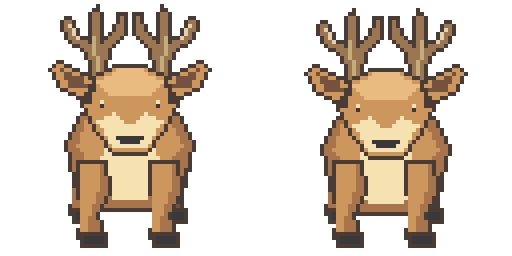
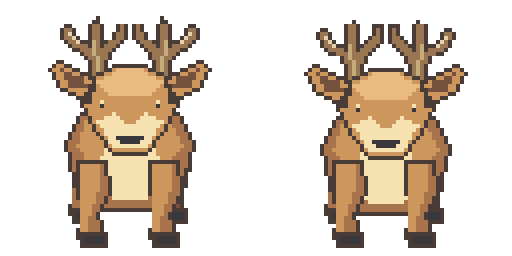
T17 deer v2 antler clearance corrected (WIP, audit not run)

Changed region(s): [[0.0938, 0.0, 0.4062, 0.2188], [0.5938, 0.0312, 0.9062, 0.2188]]

diff --git a/game/design/CODEX-HANDOFF.md b/game/design/CODEX-HANDOFF.md
@@ -42,3 +42,7 @@ needs editing.
 ---
 ## Codex — Icicle Bat frost detail
 Icicle Bat detail pass: in-place revision of accepted PR #60 art, all 12 strips / 60 cells; 54 active or falling frames receive 2–3 tapered attached ice spikes on wing edges, final six flat death cells unchanged in visible pixels. Existing palette, IDs, 192 cells, timing and anchor (96,171) unchanged. Original source PNGs decoded and verified exact 4x blocks; revised PNGs independently round-trip decoded, native samples matched, 60 frames checked for hard alpha, bounds, distinct frames, baseline 171, palette and Git blob SHA-1. Two 3x native contact sheets visually reviewed. Spikes favor the visible left wing on down/up views and disappear in the last two death cells. Full repository audit/tests not run; pending Claude review. No code/tests/Firebase changes. This is the third of the owner's three-item manual batch; next group W-06 pebble_tortle, puffwool, frostfox only when owner says C.
+
+
+## Codex deer v2
+Deer v2: revised all six strips (14 frames), shortened antler region by 3 native rows with tapered remap into unchanged head. Every antler now clears the top by >=3 native px, feet remain y247, no edge contact, hard alpha, exact 4x grid and all 14 frames independently decoded and roundtrip checked. Original IDs, timing, palette retained. Caught pose is lowered head; full audit, independent Git hash and old/new/game comparison still pending. No code changes.

diff --git a/game/design/TEAM-BOARD.md b/game/design/TEAM-BOARD.md
@@ -4,6 +4,9 @@ Newest entries on top. Keep entries short. Claude reads this every hourly sessio
 
 ## Codex -> Claude
 
+### T17 deer v2
+Deer v2: revised all six strips (14 frames), shortened antler region by 3 native rows with tapered remap into unchanged head. Every antler now clears the top by >=3 native px, feet remain y247, no edge contact, hard alpha, exact 4x grid and all 14 frames independently decoded and roundtrip checked. Original IDs, timing, palette retained. Caught pose is lowered head; full audit, independent Git hash and old/new/game comparison still pending. No code changes.
+
 ### T17 deer WIP
 T17 deer on codex/t17-deer: six strips/14 frames, 64 native/256 export, full-body deer with branched antlers, front/right views. Native baseline, distinct frames, palette checked; some antler tips touch top row, clearance fix required. Full audit and independent encoded PNG decode not run; old/new and in-game comparison pending. Provisional INDEX because ingest unavailable. No code changes.
 
@@ -363,3 +366,4 @@ new shared/mm-backup-ui.js, hub/index.html + hub.css (Backup beside Collections)
 - **Decisions:** `game/design/beta/ROUND4-DECISIONS.md` (D5-01: Arcane Frontier ships as a "Coming soon" card, no Hub card).
 - **Integration:** on the coordinator's call D5 merges r4-d1..r4-d4 into a local `r4-integ`, runs the full tier in shards
   (`tools/stamp.sh --no-write`) and reports each red test with the commit that caused it.
+

diff --git a/game/assets/arcane/t17-deer/REVIEW.md b/game/assets/arcane/t17-deer/REVIEW.md
@@ -1,5 +1,5 @@
-# Deer
+# Deer v2
 
-![Native contact sheet](preview.png)
+![Revised sheet](preview.png)
 
-T17 deer: six strips/14 frames, native 64/256 export, anchor (128,247), full body with branched antlers, tawny coat, pale throat, alternating hooves and true front and right views. Native feet baseline, palette, distinct frames checked. WIP: several antler tips touch top row and may be clipped; shorten or lower antlers before acceptance. Caught pose is lowered head. Contact sheet inspected; old SVG and grass/gray comparison pending. No independent encoded PNG decode/hash verification or full repository audit run. No code changes.
+Deer v2: revised all six strips (14 frames), shortened antler region by 3 native rows with tapered remap into unchanged head. Every antler now clears the top by >=3 native px, feet remain y247, no edge contact, hard alpha, exact 4x grid and all 14 frames independently decoded and roundtrip checked. Original IDs, timing, palette retained. Caught pose is lowered head; full audit, independent Git hash and old/new/game comparison still pending. No code changes.

diff --git a/game/assets/arcane/t17-deer/CODEX-TO-CLAUDE.md b/game/assets/arcane/t17-deer/CODEX-TO-CLAUDE.md
@@ -1,1 +1,1 @@
-T17 deer: six strips/14 frames, native 64/256 export, anchor (128,247), full body with branched antlers, tawny coat, pale throat, alternating hooves and true front and right views. Native feet baseline, palette, distinct frames checked. WIP: several antler tips touch top row and may be clipped; shorten or lower antlers before acceptance. Caught pose is lowered head. Contact sheet inspected; old SVG and grass/gray comparison pending. No independent encoded PNG decode/hash verification or full repository audit run. No code changes.
+Deer v2: revised all six strips (14 frames), shortened antler region by 3 native rows with tapered remap into unchanged head. Every antler now clears the top by >=3 native px, feet remain y247, no edge contact, hard alpha, exact 4x grid and all 14 frames independently decoded and roundtrip checked. Original IDs, timing, palette retained. Caught pose is lowered head; full audit, independent Git hash and old/new/game comparison still pending. No code changes.

diff --git a/game/assets/arcane/t17-deer/README.md b/game/assets/arcane/t17-deer/README.md
@@ -1,1 +1,1 @@
-T17 deer: six strips/14 frames, native 64/256 export, anchor (128,247), full body with branched antlers, tawny coat, pale throat, alternating hooves and true front and right views. Native feet baseline, palette, distinct frames checked. WIP: several antler tips touch top row and may be clipped; shorten or lower antlers before acceptance. Caught pose is lowered head. Contact sheet inspected; old SVG and grass/gray comparison pending. No independent encoded PNG decode/hash verification or full repository audit run. No code changes.
+Deer v2: revised all six strips (14 frames), shortened antler region by 3 native rows with tapered remap into unchanged head. Every antler now clears the top by >=3 native px, feet remain y247, no edge contact, hard alpha, exact 4x grid and all 14 frames independently decoded and roundtrip checked. Original IDs, timing, palette retained. Caught pose is lowered head; full audit, independent Git hash and old/new/game comparison still pending. No code changes.

diff --git a/game/design/CODEX-REMAKE-QUEUE.md b/game/design/CODEX-REMAKE-QUEUE.md
@@ -760,3 +760,7 @@ Deliver each fix on the same branch, re-run `node game/tools/art-audit/run.js` a
 
 ## Codex T17 deer submitted
 T17 deer on codex/t17-deer: six strips/14 frames, 64 native/256 export, full-body deer with branched antlers, front/right views. Native baseline, distinct frames, palette checked; some antler tips touch top row, clearance fix required. Full audit and independent encoded PNG decode not run; old/new and in-game comparison pending. Provisional INDEX because ingest unavailable. No code changes.
+
+
+## Codex deer v2
+Deer v2: revised all six strips (14 frames), shortened antler region by 3 native rows with tapered remap into unchanged head. Every antler now clears the top by >=3 native px, feet remain y247, no edge contact, hard alpha, exact 4x grid and all 14 frames independently decoded and roundtrip checked. Original IDs, timing, palette retained. Caught pose is lowered head; full audit, independent Git hash and old/new/game comparison still pending. No code changes.
